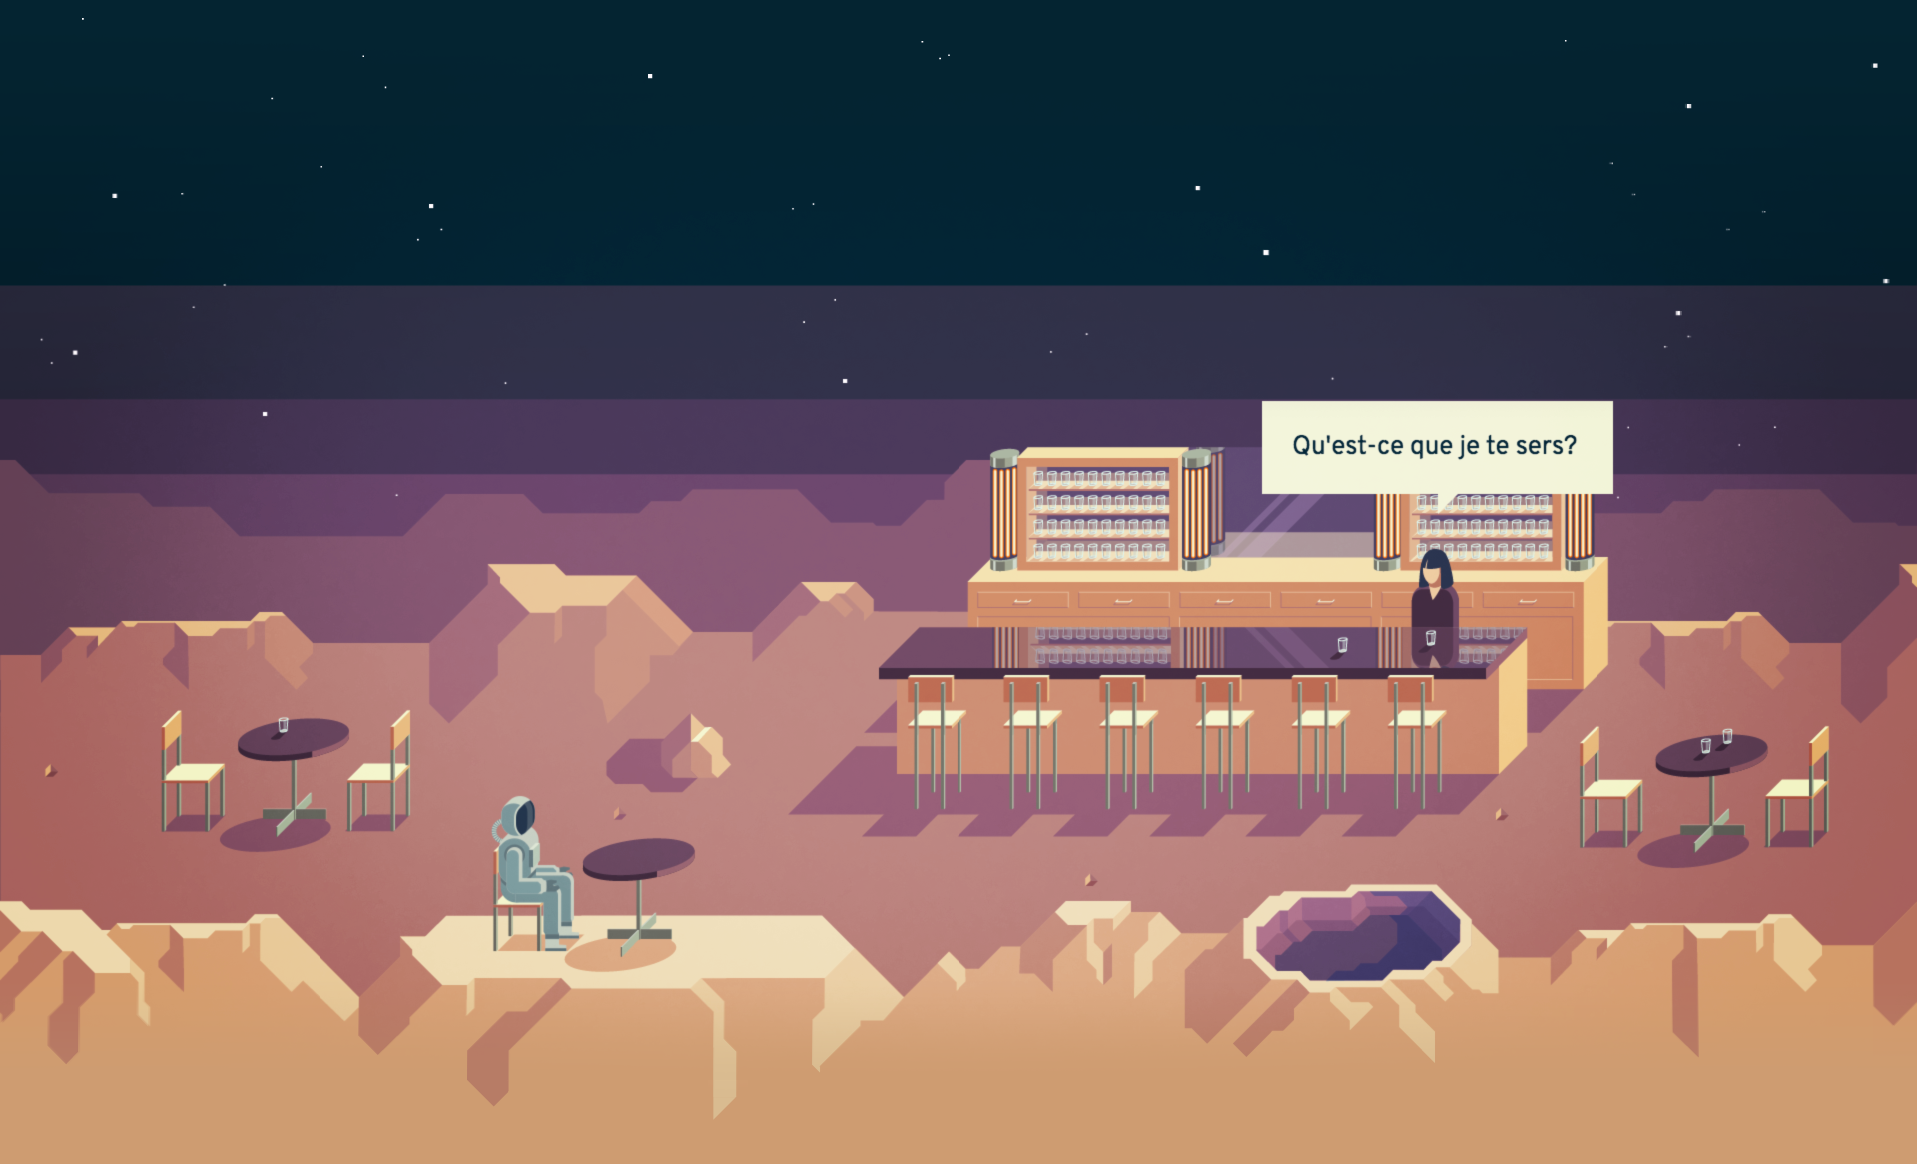
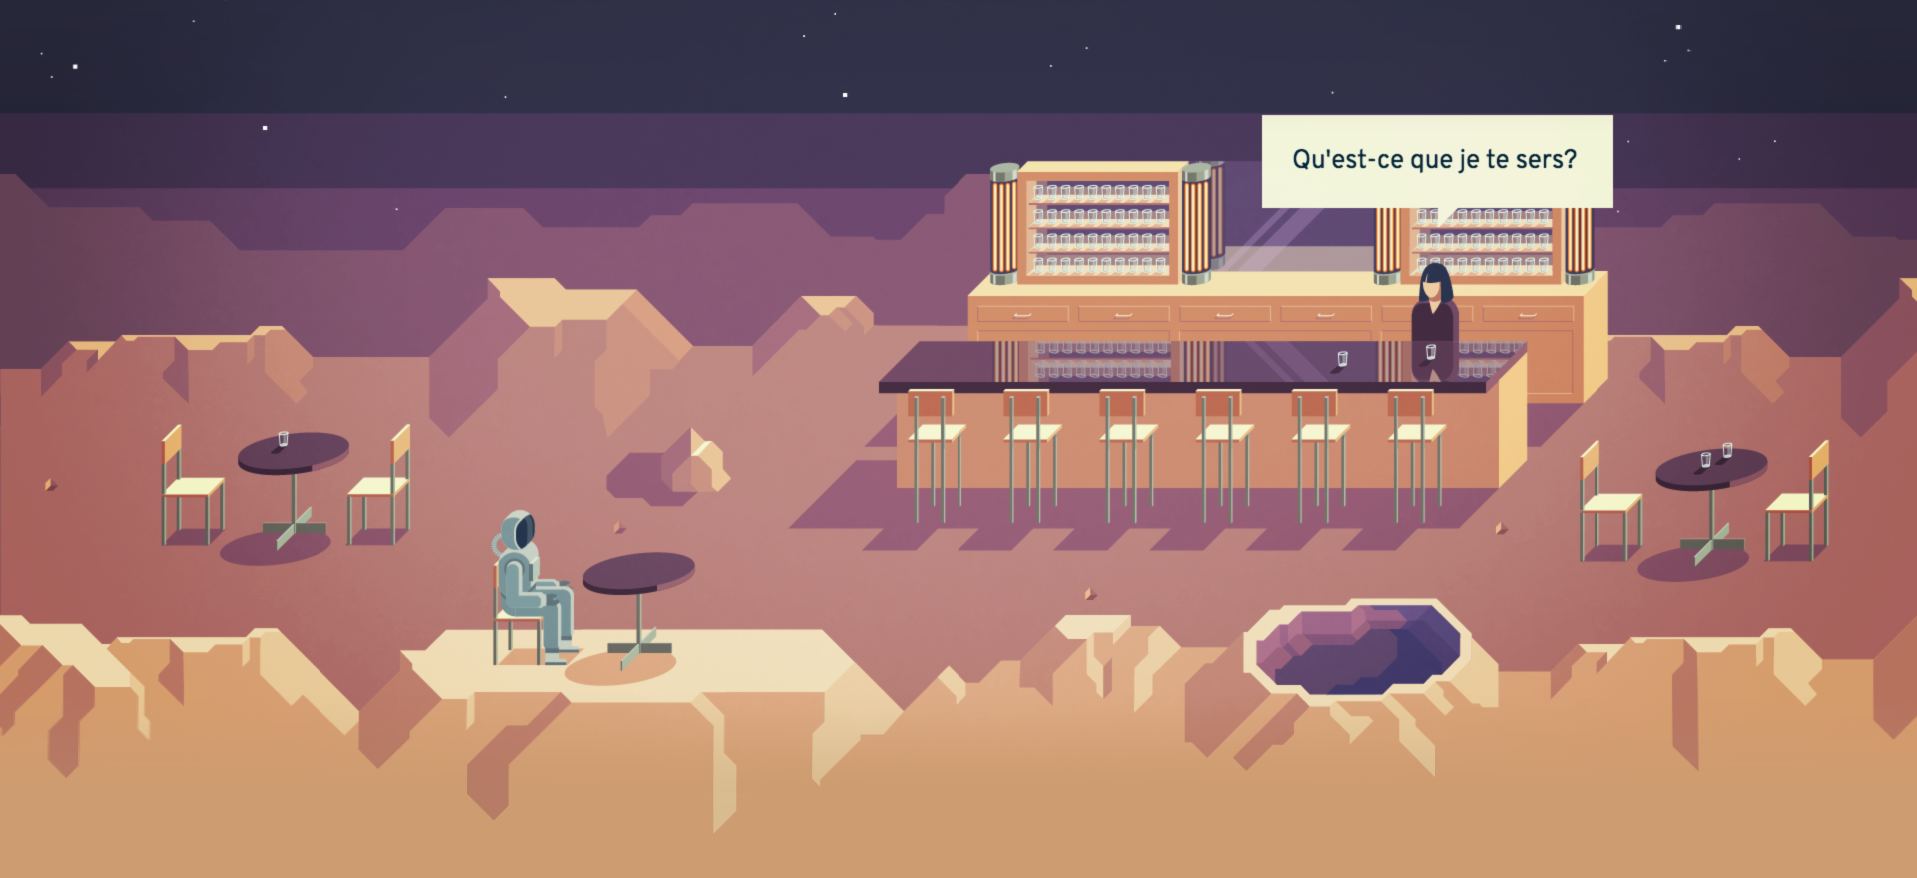
Ajustements au contenu

diff --git a/_projects-fr/safia-nolin.html b/_projects-fr/safia-nolin.html
@@ -14,7 +14,7 @@ tags: [modélisation 3D, animation, compositing, espace]
   </div>
 </section>
 
-<section class="wide padded">
+<section class="wide padded screenshot">
   <img src="../images/safia-nolin/safia-nolin.png" alt="Une capture d’écran de la vidéo Noël Partout"/>
 </section>
 
@@ -22,6 +22,9 @@ tags: [modélisation 3D, animation, compositing, espace]
   <div class="text">
     <p>Quand <a href="http://www.davai.ca">Davai</a> m’a approché pour concevoir l’intérieur d’une navette spatiale, j’ai dit non, je suis contre la colonisation spatiale.</p>
     <p>Après ils m’ont dit que ce n’était pas une vraie navette spatiale, mais une navette spatiale dans un vidéoclip de Safia Nolin, alors j’ai dit oui.</p>
+
+    {% include tags.html %}
+
   </div>
 </section>
 

diff --git a/_projects-fr/apollo-11.html b/_projects-fr/apollo-11.html
@@ -13,6 +13,18 @@ tags: [illustration, programmation, jeu vidéo, espace]
   <div class="text">
     <h1>Apollo 11</h1>
     <p class="intro">Un jeu vidéo qui retrace le fil de la catastrophe lunaire du 20&nbsp;juillet&nbsp;1969.</p>
-    <p>En cours de développement au sein du collectif <a href="http://grandbruit.ca">Grand bruit</a>. Sortie prévue fin 2017.</p>
+  </div>
+</section>
+
+<section class="screenshot wide">
+  <img src="/images/apollo-11/screenshot.png" alt="Capture d’écran du jeu">
+</section>
+
+<section class="padded">
+  <div class="text">
+    <p>En cours de développement au sein du collectif <a href="http://grandbruit.ca">Grand&nbsp;bruit</a>. Sortie prévue fin 2017.</p>
+    
+    {% include tags.html %}
+    
   </div>
 </section>

diff --git a/_projects-fr/ariane.html b/_projects-fr/ariane.html
@@ -10,6 +10,15 @@ tags: [compositing, animation]
 <section>
   <div class="text">
     <h1>Ariane</h1>
-    <p class="intro">De la poussière lumineuse dans une vidéo de Leda &amp; St-Jacques.</p>
+    <p class="intro">Des lucioles ondoyantes pour une vidéo de Leda &amp; St‑Jacques.</p>
   </div>
 </section>
+
+<section>
+  <div class="text">
+    <p>C’est ça qui est ça, tsé.</p>
+    
+    {% include tags.html %}
+  </div>
+</section>
+

diff --git a/_sass/projects/_safia-nolin.scss b/_sass/projects/_safia-nolin.scss
@@ -1,3 +1,15 @@
 body.safia-nolin {
   background-color: #1c1f1d;
+  
+  section.screenshot {
+    img {
+      width: 200%;
+      margin-left: -50%;
+      
+      @include tablet {
+        width: 100%;
+        margin-left: 0;
+      }
+    }
+  }
 }
